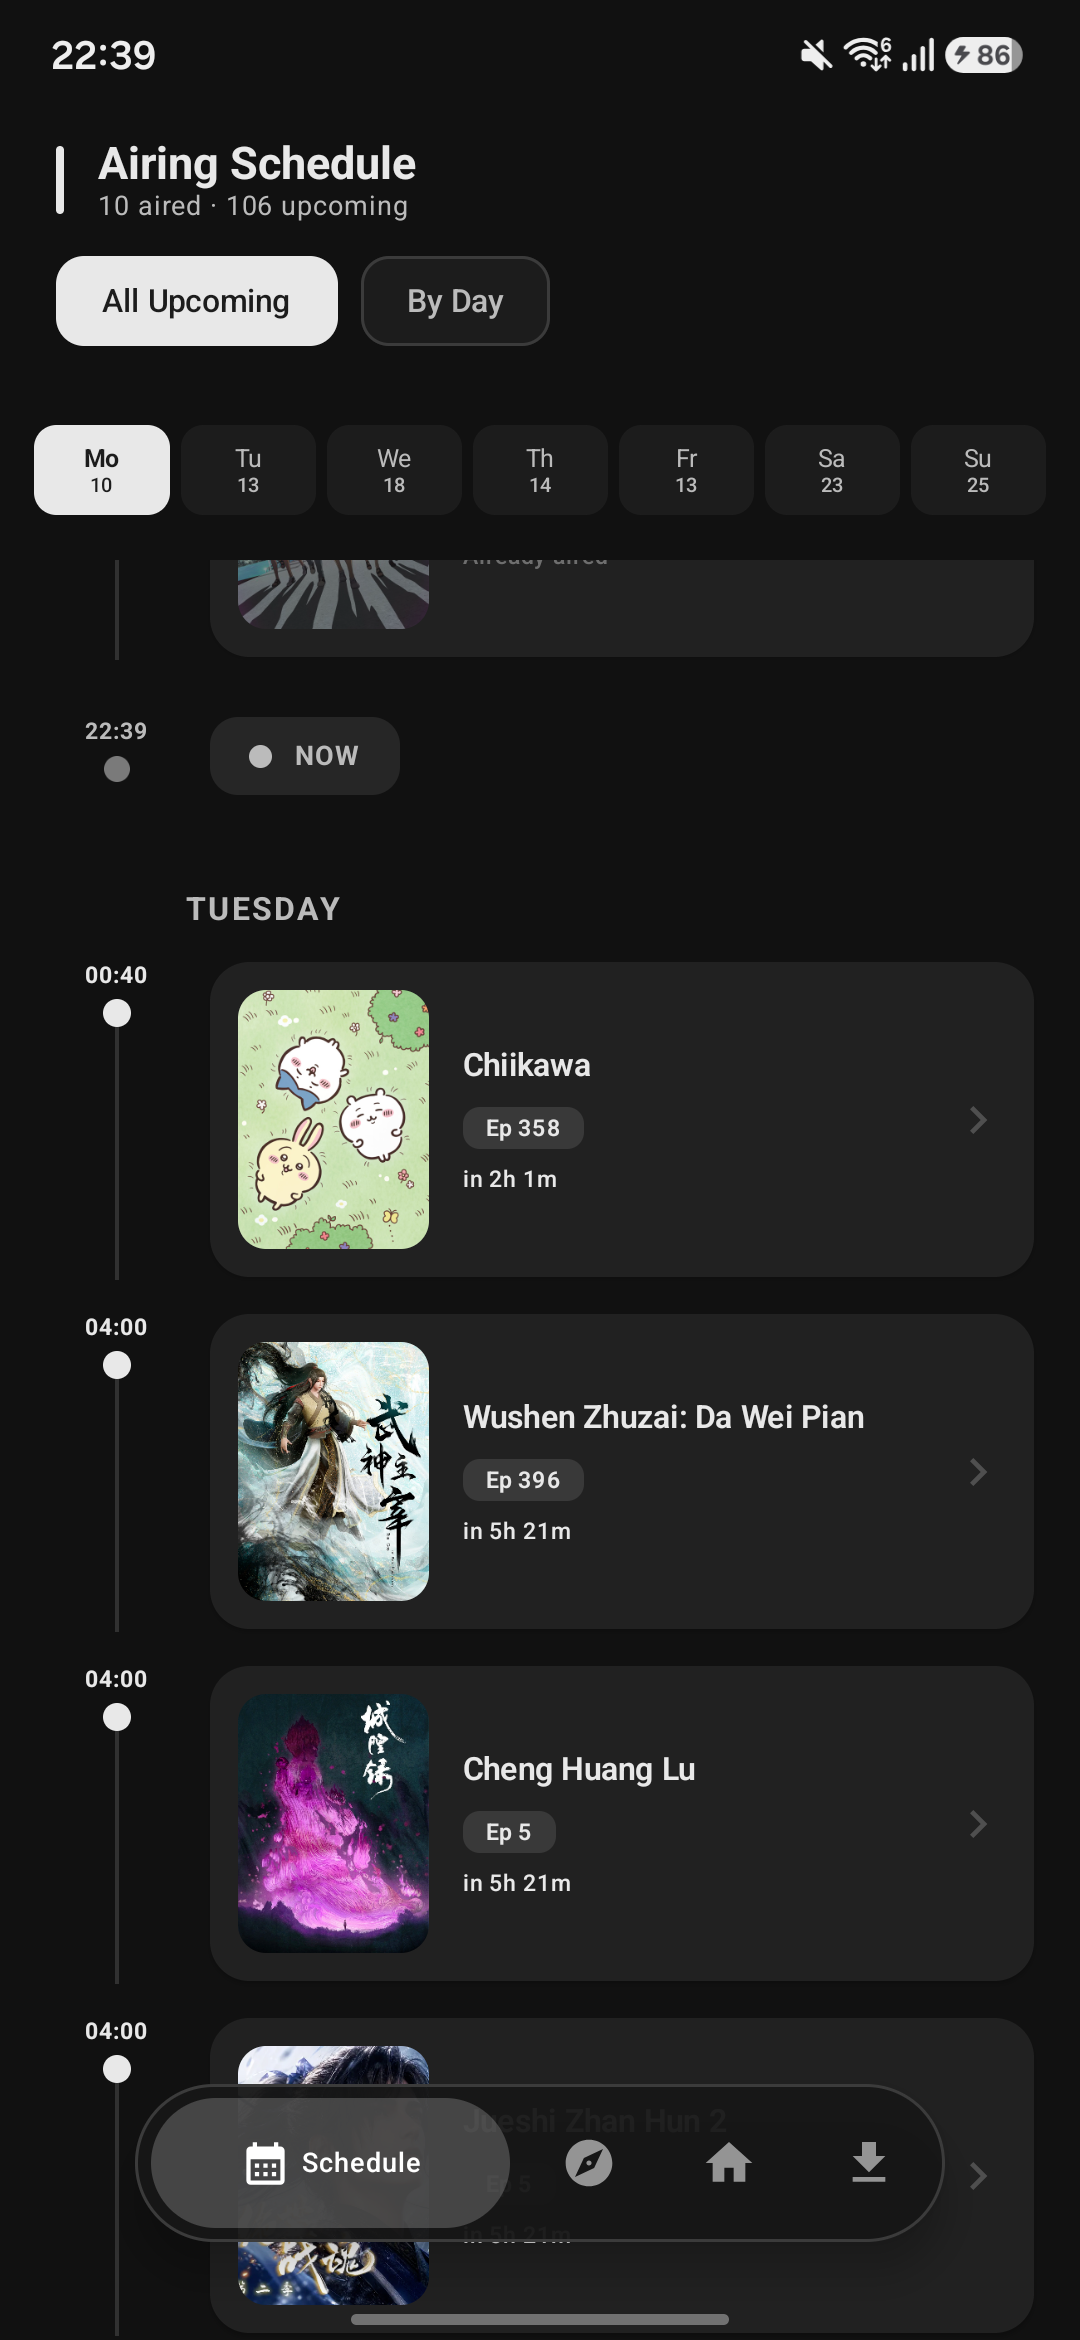
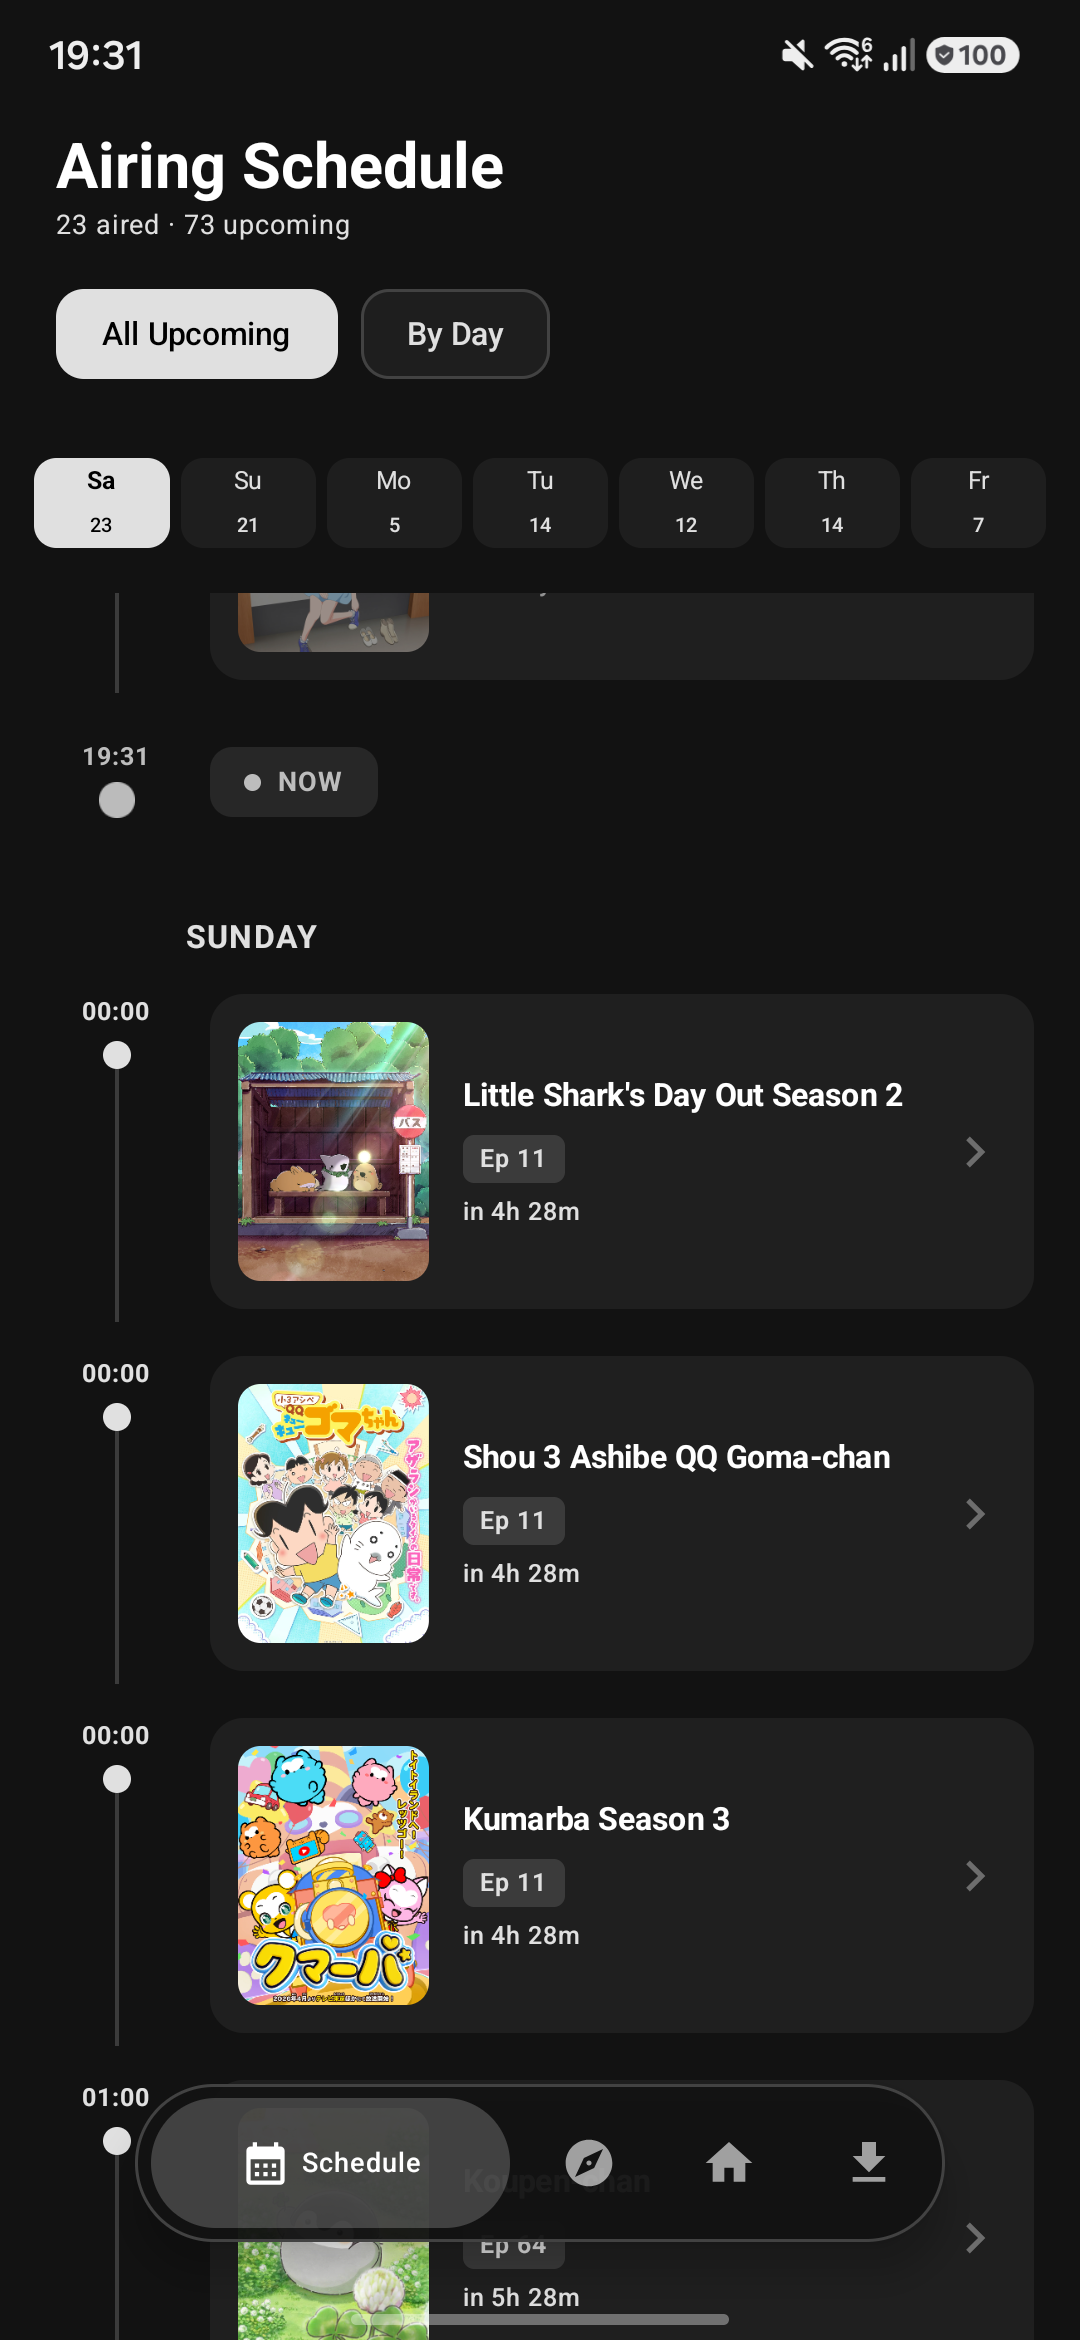
code refactoring

diff --git a/app/src/main/java/com/blissless/tensei/ui/components/HomeComponents.kt b/app/src/main/java/com/blissless/tensei/ui/components/HomeComponents.kt
@@ -728,7 +728,6 @@ fun ContinueWatchingEpisodeCard(
             .width(240.dp)
             .height(140.dp)
             .clip(RoundedCornerShape(18.dp))
-            .clickable { onPlayClick() }
     ) {
         Box(modifier = Modifier.fillMaxSize()) {
             AsyncImage(
@@ -793,7 +792,9 @@ fun ContinueWatchingEpisodeCard(
                     }
                 }
 
-                Column {
+                Column(
+                    modifier = Modifier.clickable { onPlayClick() }
+                ) {
                     Box(
                         modifier = Modifier
                             .fillMaxWidth()

diff --git a/README.md b/README.md
@@ -26,7 +26,7 @@ A modern anime list manager and tracker for Android.
 
 ## Installation
 
-Download the APK from [Releases](https://github.com/Suntrax/tensei/releases) and install.
+Download the APK from [Releases](https://github.com/YOUR_USERNAME/tensei/releases) and install.
 
 ## Tech Stack
 